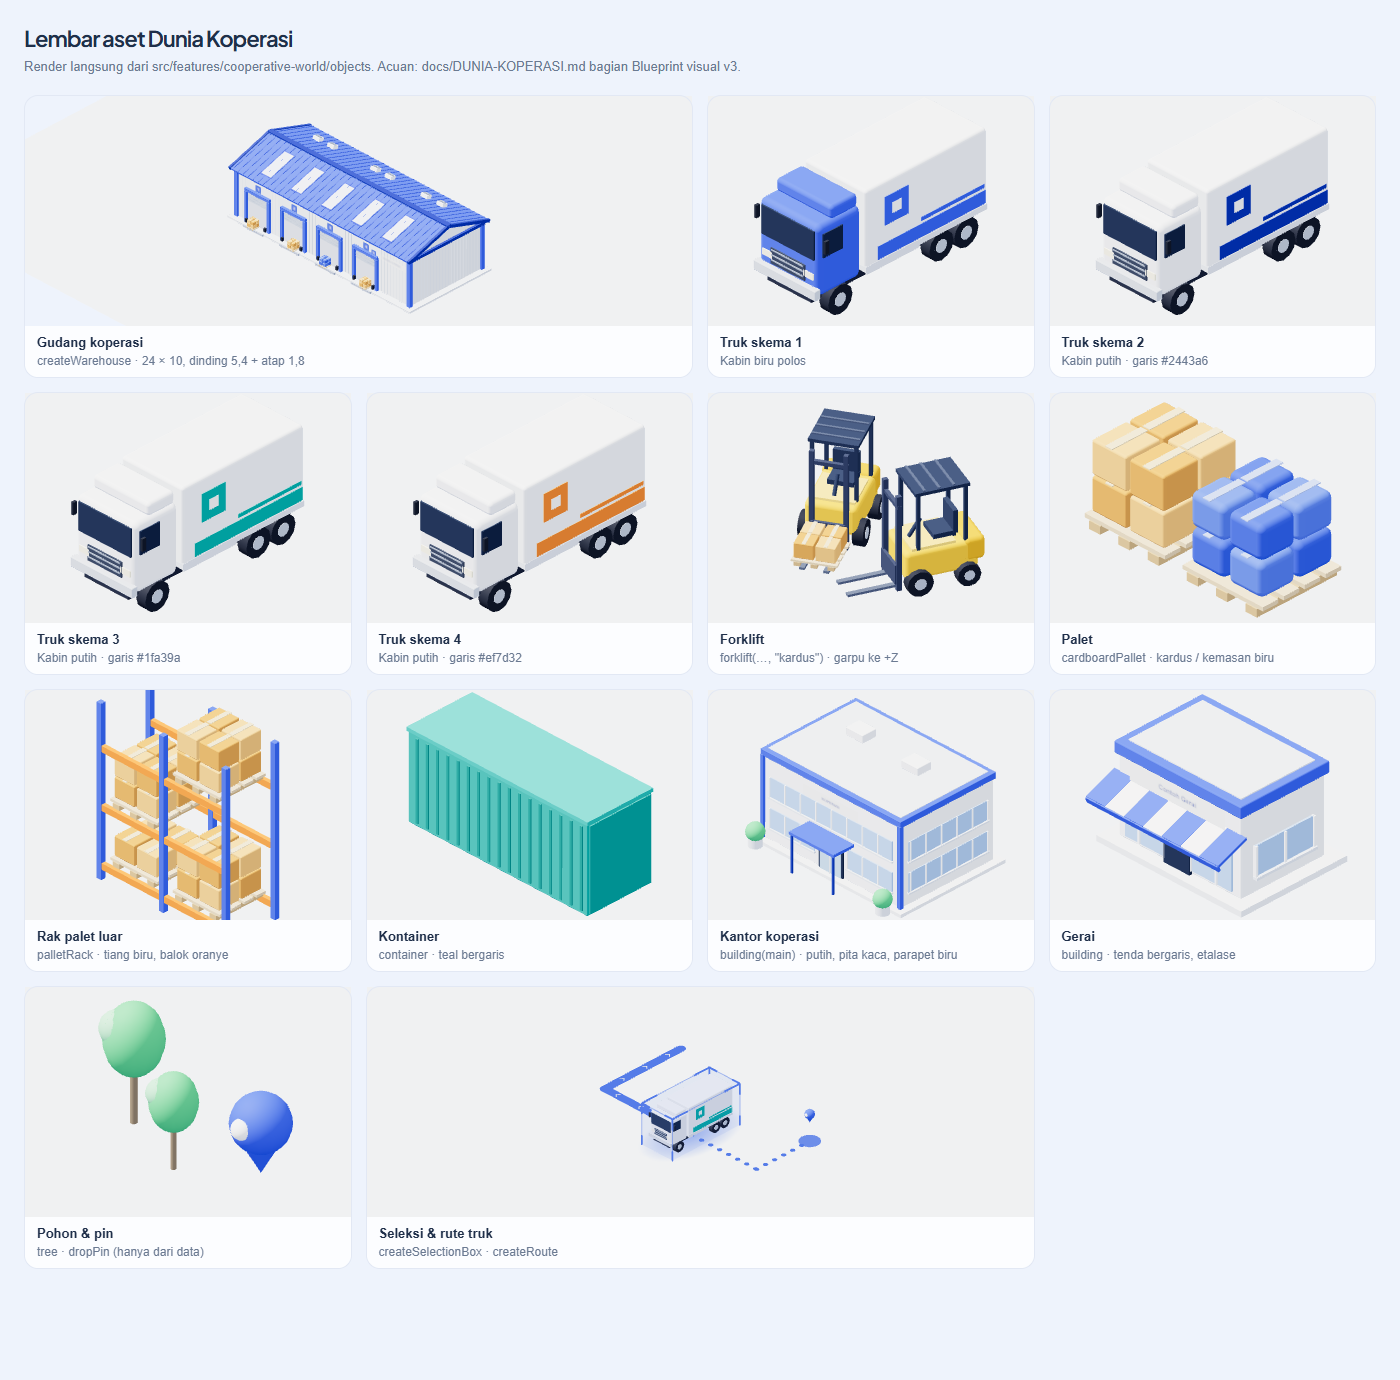
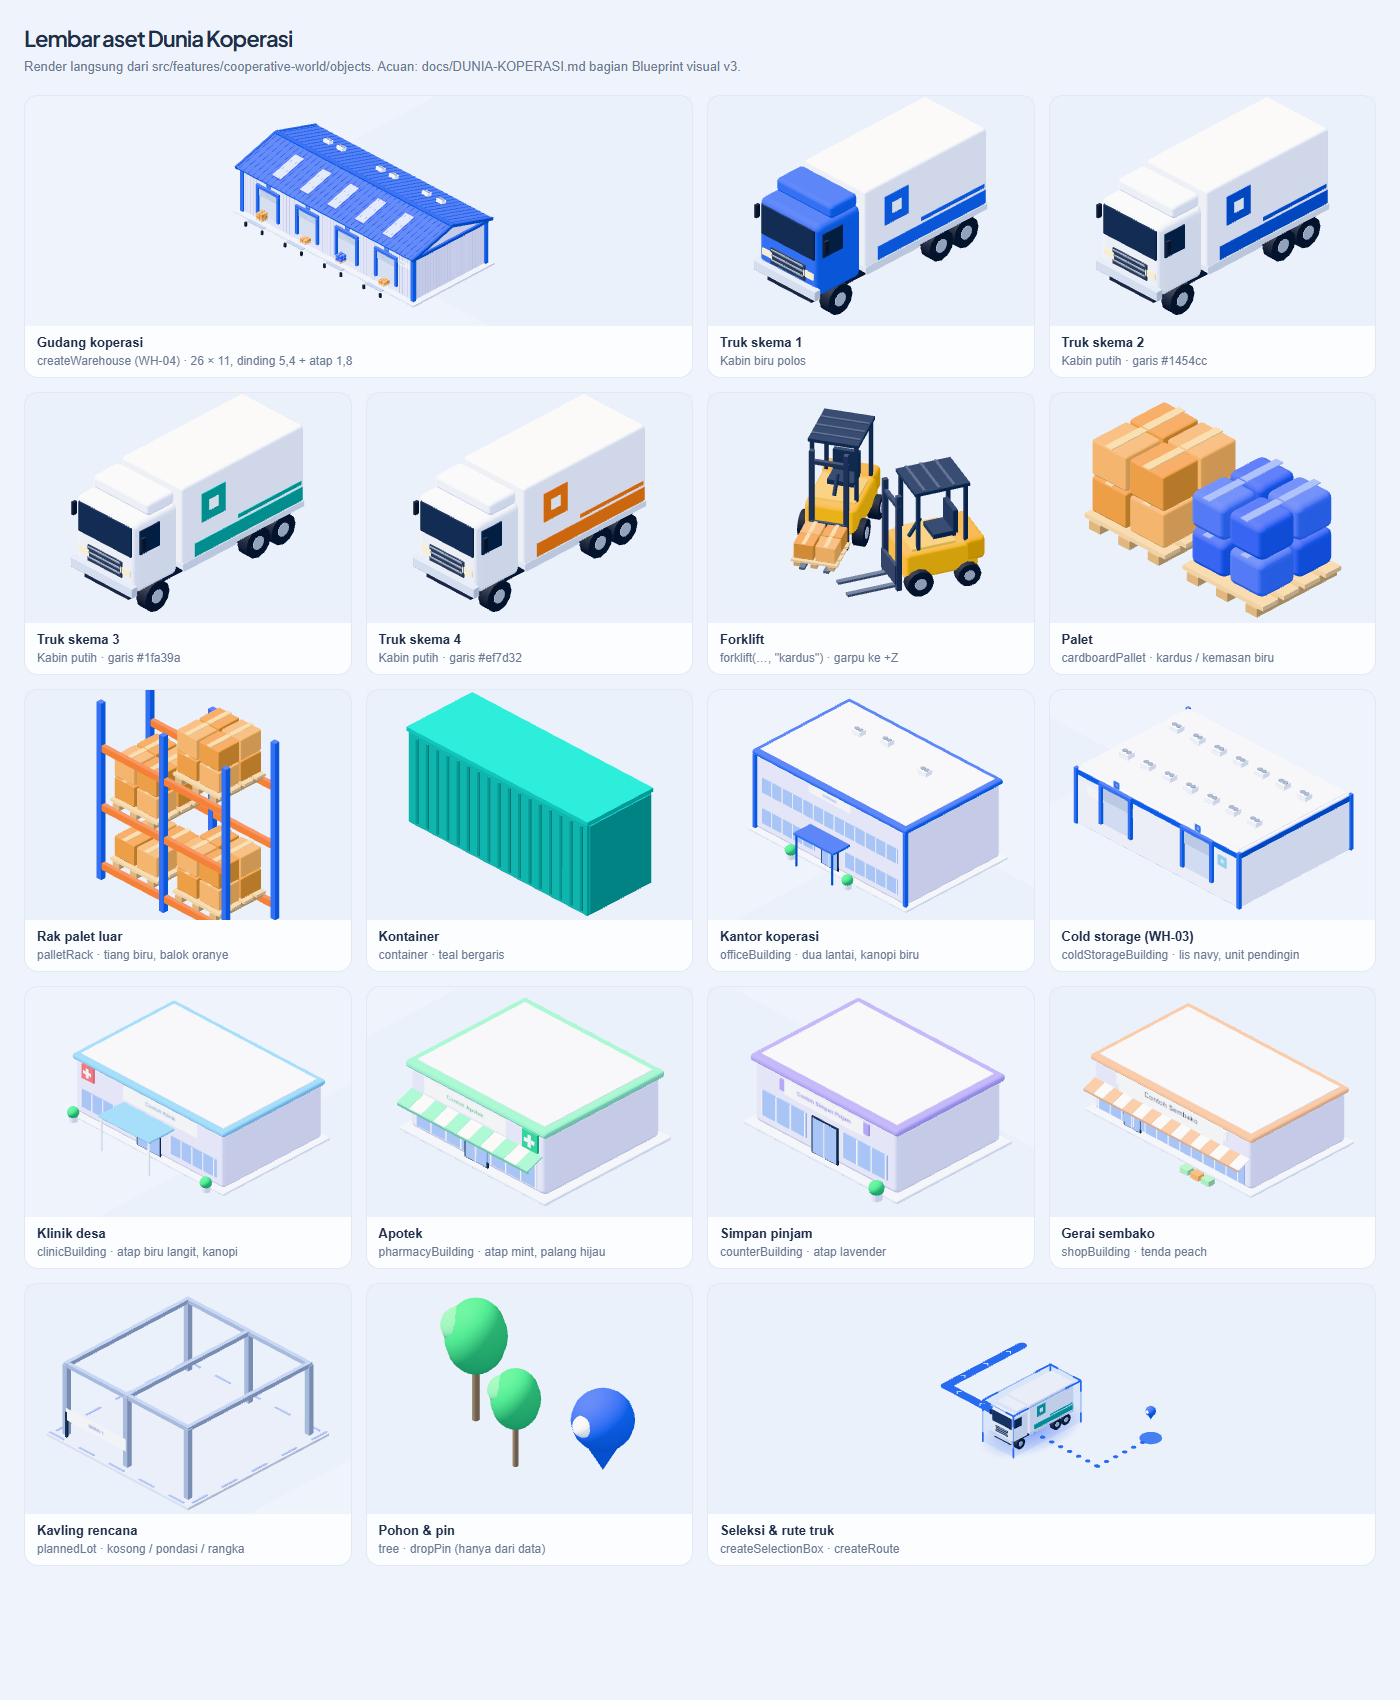
Distrik v4: bukti tangkapan layar, pembaruan lembar aset dan dokumentasi
Menambahkan tangkapan layar bukti implementasi Distrik v4 (resolusi 375-1440 px, interior gerai, cold storage, logistik, animasi dok, klik rapat). Memperbarui AssetSheet dengan bangunan per jenis (WH-04, WH-03, kantor, klinik, apotek, simpan pinjam, sembako, kavling rencana). Memperbarui tes UI, DUNIA-KOPERASI, STATUS, LANJUTAN-AI, dan CHANGELOG. Lulus 303 tes, typecheck, lint, dan build.

diff --git a/src/features/cooperative-world/dev/AssetSheet.tsx b/src/features/cooperative-world/dev/AssetSheet.tsx
@@ -3,20 +3,20 @@ import { useEffect, useRef } from 'react';
 import * as THREE from 'three';
 import { warehouse } from '../layout';
 import { createSelectionBox } from '../objects/highlight';
-import { building } from '../objects/office';
+import { allBuildings } from '../district';
 import {
-  disposeSharedResources,
-  mergeStatic,
-  palette,
-} from '../objects/primitives';
-import {
-  cardboardPallet,
-  container,
-  dropPin,
-  forklift,
-  palletRack,
-  tree,
-} from '../objects/props';
+  clinicBuilding,
+  coldStorageBuilding,
+  counterBuilding,
+  officeBuilding,
+  pharmacyBuilding,
+  plannedLot,
+  shopBuilding,
+} from '../objects/district-buildings';
+
+const find = (id: string) => allBuildings().find((b) => b.id === id)!;
+import { disposeSharedResources, mergeStatic, palette } from '../objects/primitives';
+import { cardboardPallet, container, dropPin, forklift, palletRack, tree } from '../objects/props';
 import { createRoute } from '../objects/route';
 import { truck, truckSchemes } from '../objects/vehicles';
 import { createWarehouse } from '../objects/warehouse';
@@ -30,7 +30,7 @@ type Cell = { title: string; note: string; build: (parent: THREE.Group) => void;
 const cells: Cell[] = [
   {
     title: 'Gudang koperasi',
-    note: 'createWarehouse · 24 × 10, dinding 5,4 + atap 1,8',
+    note: 'createWarehouse (WH-04) · 26 × 11, dinding 5,4 + atap 1,8',
     wide: true,
     build: (parent) => {
       const g = createWarehouse(parent);
@@ -72,16 +72,51 @@ const cells: Cell[] = [
   },
   {
     title: 'Kantor koperasi',
-    note: 'building(main) · putih, pita kaca, parapet biru',
+    note: 'officeBuilding · dua lantai, kanopi biru',
     build: (parent) => {
-      building(parent, 0, 0, 'Koperasi', true);
+      officeBuilding(parent, find('kantor'));
     },
   },
   {
-    title: 'Gerai',
-    note: 'building · tenda bergaris, etalase',
+    title: 'Cold storage (WH-03)',
+    note: 'coldStorageBuilding · lis navy, unit pendingin',
     build: (parent) => {
-      building(parent, 0, 0, 'Contoh Gerai', false, 'gerai');
+      coldStorageBuilding(parent, find('cold-storage'), 'aset');
+    },
+  },
+  {
+    title: 'Klinik desa',
+    note: 'clinicBuilding · atap biru langit, kanopi',
+    build: (parent) => {
+      clinicBuilding(parent, find('klinik'), 'Contoh Klinik', 'aset');
+    },
+  },
+  {
+    title: 'Apotek',
+    note: 'pharmacyBuilding · atap mint, palang hijau',
+    build: (parent) => {
+      pharmacyBuilding(parent, find('apotek'), 'Contoh Apotek', 'aset');
+    },
+  },
+  {
+    title: 'Simpan pinjam',
+    note: 'counterBuilding · atap lavender',
+    build: (parent) => {
+      counterBuilding(parent, find('simpan-pinjam'), 'Contoh Simpan Pinjam', 'aset');
+    },
+  },
+  {
+    title: 'Gerai sembako',
+    note: 'shopBuilding · tenda peach',
+    build: (parent) => {
+      shopBuilding(parent, find('sembako'), 'Contoh Sembako', 'aset', palette.pastelPeach);
+    },
+  },
+  {
+    title: 'Kavling rencana',
+    note: 'plannedLot · kosong / pondasi / rangka',
+    build: (parent) => {
+      plannedLot(parent, find('gerai-1'), 'aset', 'rangka');
     },
   },
   {
@@ -146,7 +181,8 @@ export function AssetSheet() {
       scene.add(group);
       cell.build(group);
       // Gudang dibangun di koordinat kawasan; geser ke titik asal agar kamera sederhana.
-      if (cell.title === 'Gudang koperasi') group.position.set(-warehouse.center[0], 0, -warehouse.center[1]);
+      if (cell.title === 'Gudang koperasi')
+        group.position.set(-warehouse.center[0], 0, -warehouse.center[1]);
       const floor = new THREE.Mesh(
         new THREE.PlaneGeometry(80, 80),
         new THREE.MeshStandardMaterial({ color: palette.ground, roughness: 1 }),
@@ -158,7 +194,9 @@ export function AssetSheet() {
       const center = bounds.getCenter(new THREE.Vector3());
       const radius = bounds.getSize(new THREE.Vector3()).length() / 2;
       const camera = new THREE.OrthographicCamera(-1, 1, 1, -1, 0.1, 400);
-      camera.position.copy(center).add(new THREE.Vector3(26, 23, 26).normalize().multiplyScalar(80));
+      camera.position
+        .copy(center)
+        .add(new THREE.Vector3(26, 23, 26).normalize().multiplyScalar(80));
       camera.lookAt(center);
       return { scene, camera, radius };
     });
@@ -212,7 +250,7 @@ export function AssetSheet() {
       <h1 style={{ fontSize: 22, margin: '0 0 4px' }}>Lembar aset Dunia Koperasi</h1>
       <p style={{ margin: '0 0 18px', color: '#6b7a92', fontSize: 13 }}>
         Render langsung dari src/features/cooperative-world/objects. Acuan: docs/DUNIA-KOPERASI.md
-        bagian Blueprint visual v3.
+        bagian Distrik ala video v4 dan Blueprint visual v3.
       </p>
       <div ref={host} style={{ position: 'relative' }}>
         <div
@@ -237,7 +275,12 @@ export function AssetSheet() {
             >
               <div data-cell={index} style={{ height: 230 }} />
               <figcaption
-                style={{ padding: '8px 12px', background: '#ffffffd9', fontSize: 12, lineHeight: 1.4 }}
+                style={{
+                  padding: '8px 12px',
+                  background: '#ffffffd9',
+                  fontSize: 12,
+                  lineHeight: 1.4,
+                }}
               >
                 <strong style={{ display: 'block', fontSize: 13 }}>{cell.title}</strong>
                 <span style={{ color: '#6b7a92' }}>{cell.note}</span>

diff --git a/tests/ui/cooperative-world.test.tsx b/tests/ui/cooperative-world.test.tsx
@@ -18,14 +18,16 @@ it('masuk dan keluar kantor dengan pintasan area yang tepat', () => {
 });
 it('gerai kosong mengarah ke form asli, tanpa membuat data pratinjau', () => {
   render(<CooperativeWorld data={{}} />);
-  fireEvent.click(screen.getByRole('button', { name: /Lahan gerai 1/ }));
-  expect(screen.getByText('Lahan kosong')).toBeTruthy();
+  // Bangunan unit tanpa catatan Gerai tampil sebagai rencana (distrik v4).
+  fireEvent.click(screen.getByRole('button', { name: /Simpan pinjam/ }));
+  expect(screen.getByText('Belum buka')).toBeTruthy();
   expect(screen.getByRole('link', { name: 'Tambahkan gerai' }).getAttribute('href')).toBe('/gerai');
 });
 it('galat pemuatan ditampilkan sebagai tidak tersedia, bukan angka nol', () => {
   render(<CooperativeWorld data={{}} error="Koneksi gagal" refresh={vi.fn()} />);
   expect(screen.getByRole('alert').textContent).toContain('Koneksi gagal');
-  expect(screen.getByRole('link', { name: /Gerai tercatat/ }).textContent).toContain('—');
+  // Zona bawaan v4 = logistik, jadi KPI pertama adalah barang; galat tetap tanda —, bukan 0.
+  expect(screen.getByRole('link', { name: /Barang tercatat/ }).textContent).toContain('—');
   expect(screen.getByRole('button', { name: 'Coba lagi' })).toBeTruthy();
 });
 it('preferensi korup tidak mencegah halaman tampil', () => {

diff --git a/docs/DUNIA-KOPERASI.md b/docs/DUNIA-KOPERASI.md
@@ -21,9 +21,18 @@ Arahan langsung pemilik terbaru mengatasi konflik. Jika gaya berubah atas permin
 
 ![Komposisi UI dan lingkungan video](referensi-dunia/video-contact-sheet.jpg)
 
-## Distrik ala video v4 — denah menunggu persetujuan pemilik (6 Oktober 2026)
+## Distrik ala video v4 — berlaku (denah disetujui pemilik 6 Oktober 2026)
 
-Wawancara kedua: tata letak harus mengikuti video, bukan denah lama dan bukan zip. Data denah di `district.ts` (fungsi murni, `validateDistrict` teruji); gambar dibuat ulang dengan `node scripts/denah-dunia.mjs`: [tampak atas](referensi-dunia/blueprint/denah-distrik.png) ([SVG](referensi-dunia/blueprint/denah-distrik.svg)), [sketsa isometrik](referensi-dunia/blueprint/denah-distrik-iso.png). Jalan kota grid (Raya 4 lajur, Koperasi, Utara, Barat, Timur, Lahan) bertrotoar; lima kavling berpagar: Logistik & cold storage (gudang WH-04 empat dok + cold storage WH-03 dua dok, lantai dok tinggi bertepi kuning, parkir 3 truk, cas forklift, staging kardus, gerbang barang ke Jalan Raya), Administrasi (kantor + simpan pinjam + parkir mobil + taman), Layanan kesehatan (klinik + apotek berdampingan, plaza, parkir), Gerai niaga (sembako + tiga kavling gerai tambahan, parkir), Lahan pertanian (enam petak kosong). Truk masuk dari timur Jalan Raya tanpa melewati area warga. Rincian keputusan dan urutan kerja di LANJUTAN-AI. Implementasi 3D dimulai setelah denah disetujui.
+Wawancara kedua: tata letak harus mengikuti video, bukan denah lama dan bukan zip. Data denah di `district.ts` (fungsi murni, `validateDistrict` teruji); gambar dibuat ulang dengan `node scripts/denah-dunia.mjs`: [tampak atas](referensi-dunia/blueprint/denah-distrik.png) ([SVG](referensi-dunia/blueprint/denah-distrik.svg)), [sketsa isometrik](referensi-dunia/blueprint/denah-distrik-iso.png). Jalan kota grid (Raya 4 lajur, Koperasi, Utara, Barat, Timur, Lahan) bertrotoar; lima kavling berpagar: Logistik & cold storage (gudang WH-04 empat dok + cold storage WH-03 dua dok, lantai dok tinggi bertepi kuning, parkir 3 truk, cas forklift, staging kardus, gerbang barang ke Jalan Raya), Administrasi (kantor + simpan pinjam + parkir mobil + taman), Layanan kesehatan (klinik + apotek berdampingan, plaza, parkir), Gerai niaga (sembako + tiga kavling gerai tambahan, parkir), Lahan pertanian (enam petak kosong). Truk masuk dari timur Jalan Raya tanpa melewati area warga. Rincian keputusan di LANJUTAN-AI. Catatan persetujuan: blok kota tidak kaku (ukuran/tinggi/jarak bervariasi).
+
+**Implementasi v4** (bagian ini mengalahkan uraian kawasan lama di bawah bila bertentangan):
+- Data: `district.ts` (jalan, kavling, unit KDMP, lantai dok, parkir, lahan, kota; `validateDistrict`). `layout.ts` kawasan menurun dari sana. Gerai dipetakan ke bangunan menurut kolom **Jenis** (sembako, apotek, klinik, simpan pinjam, cold storage; logistik = catatan gudang); jenis lain mengisi kavling gerai tambahan 1–3 menurut kolom Lahan lalu urutan dibuat. Tanpa catatan = kavling rencana; status rencana = pondasi, persiapan = rangka.
+- Aset: `objects/district-buildings.ts` (kantor, simpan pinjam, toko, apotek, klinik, cold storage WH-03, kavling rencana; sudut membulat, atap pastel), gudang WH-04 dengan pintu di atas lantai dok tinggi, halaman logistik dari data (kardus staging = barang tanpa rak), `exterior.ts` (jalan bertrotoar, zebra cross, kavling berpagar kaca, mobil parkir pastel, taman, lahan, kota bervariasi). Lembar aset hidup: `/dev/dunia-koperasi/aset`.
+- Warna: Neutral tone mapping, tanah/halaman/aspal biru-lavender sampel video, cahaya bawah biru (bayangan berona biru), GTAO di kualitas Tinggi; bawaan siang cerah (otomatis WIB tetap pilihan Suasana). Kamera bawaan di kavling logistik, zoom keluar sampai 0,2; bayangan mengikuti fokus kamera.
+- UI: kartu/dock/header putih 86 % + blur di desktop (95 % tanpa blur di ponsel/Hemat), kartu meluncur saat berganti; pemilih zona berlencana ilustrasi dengan bar dan ringkasan data (`zoneSummaries`); bar stok vs minimum dan mini grafik 7 hari (`weekCounts`); klik rapat/tugas/barang/Tim/Dok pergi ke tempatnya dengan kartu rapat/tugas/barang.
+- Gerak: kendaraan suasana berkeliling blok di lajur kiri dengan belokan halus (`roundedPath`); truk Pengiriman yang baru berubah status (≤ 15 menit, atau selalu di pratinjau) datang dari timur, melewati dok lalu mundur berbelok ke dok (`truckArrival`).
+- Interior baru: cold storage (`pendingin`, rak barang C1–C3 pada kolom Rak, tanpa SQL) dan gerai (`gerai:<id>`: toko, apotek, klinik, simpan pinjam; barang ber-Gerai di rak, staf Tim gerai itu di loket).
+- Bukti: [distrik 1440](referensi-dunia/blueprint/implementasi-v4-distrik-1440.png), [logistik](referensi-dunia/blueprint/implementasi-v4-logistik.png), [truk mundur ke dok](referensi-dunia/blueprint/implementasi-v4-truk-mundur-dok.png), [klik rapat](referensi-dunia/blueprint/implementasi-v4-klik-rapat.png), [cold storage](referensi-dunia/blueprint/implementasi-v4-interior-cold-storage.png), [sembako](referensi-dunia/blueprint/implementasi-v4-interior-sembako.png), [klinik](referensi-dunia/blueprint/implementasi-v4-interior-klinik.png), [ponsel 375](referensi-dunia/blueprint/implementasi-v4-ponsel-375.png), [lembar aset](referensi-dunia/blueprint/lembar-aset.png).
 
 ## Blueprint visual v3 — mengikuti video (6 Oktober 2026, berlaku)
 

diff --git a/docs/LANJUTAN-AI.md b/docs/LANJUTAN-AI.md
@@ -22,7 +22,7 @@ Kerjakan **Rencana Dunia Koperasi v2** pada bagian terakhir [DUNIA-KOPERASI](DUN
 3. Sebelum tiap paket buat tag checkpoint; commit kecil per paket; PR ke main hanya setelah pemilik menilai screenshot/rekaman.
 4. Akhir paket: perbarui bagian "Paket terakhir" di bawah, STATUS dan CHANGELOG.
 
-## Paket berjalan: Distrik ala video v4 (keputusan pemilik 6 Oktober, wawancara kedua)
+## Paket selesai (menunggu penilaian pemilik): Distrik ala video v4 (keputusan pemilik 6 Oktober, wawancara kedua)
 
 Acuan tunggal: video. Zip pemilik (PANDUAN_AGENT/dunia-koperasi-referensi-luas.html) hanya gambaran, bukan panduan. Jangan berpatokan pada denah lama.
 Keputusan: distrik kota grid berjalan berlajur + zebra cross; kavling berpagar rapi (halaman, parkir, rumput/pohon), tidak berdempetan. Kavling: Logistik (gudang gaya WH-04 + lingkungannya) + Cold storage (gaya WH-03) berbagi halaman dok berlantai tinggi, marka kuning, parkir truk, cas forklift, kardus staging dari barang tanpa rak; Administrasi (kantor + simpan pinjam + parkir); Kesehatan (klinik + apotek berdampingan); Niaga (sembako + kavling gerai tambahan); Lahan pertanian L1–L6 kosong. Posisi unit KDMP tetap; bangunan tampil dari data Gerai, belum buka = kavling rencana. Warna dasar = sampel video (tanah #e4ecfc, #d4dcf4, #bccce4; dinding #ececfc; biru #2f6be8/#1454cc); warna lain improvisasi pastel senada. Bayangan berona biru, sudut membulat, AO di Tinggi, bayangan kontak di Sedang/Hemat. Bawaan siang cerah, cuaca/waktu manual di Suasana. Kamera bawaan dekat, halus. Kartu putih 82–88 % + blur desktop, 95 % tanpa blur ponsel/Hemat; ikon ilustrasi biru; bar chart (stok vs minimum, progres dok, mini 7 hari dari data nyata, sembunyi bila tanpa riwayat). Pemilih zona ala video (kavling + bar + ringkasan data). Klik item daftar pergi ke tempatnya (rapat→ruang rapat, tugas→meja, stok→rak, Tim→karakter, Dok→truk). Truk data masuk, belok halus, mundur ke dok; kendaraan suasana keliling grid. Penunjuk tanah kosong = kotak biru rendah saat dipilih. Interior baru: cold storage (lokasi barang cold storage, rak C1–C3) dan gerai per jenis (sembako, apotek, klinik, simpan pinjam; barang/staf dari data). Angka hanya dari data.
@@ -51,6 +51,8 @@ Kerjakan berurutan; satu commit lokal per langkah (tanpa push). Centang di sini 
 - [x] 6. Perbarui Blueprint v3 di DUNIA-KOPERASI, lembar aset, STATUS, CHANGELOG; tes/typecheck/lint/build; tag checkpoint/v3-1 sebelum langkah 1.
 
 ## Paket terakhir
+
+- 6 Oktober, **Distrik v4** selesai lokal (commit per langkah, tag checkpoint/v4). Berikutnya: penilaian pemilik, lalu menu web tambahan (mis. kolom sopir/plat/jam tiba di Pengiriman, data lahan pertanian). Port 3000 dipakai dev server pemilik; tangkapan headless memakai Chromium ms-playwright via CDP (lihat paket v3).
 
 - 6 Oktober, **Blueprint visual v3** (arahan pemilik: semirip mungkin video, fokus tampilan): aset baru, rute truk, kartu ilustrasi; panduan di DUNIA-KOPERASI bagian Blueprint visual v3 dan docs/referensi-dunia/blueprint. Berikutnya menunggu penilaian pemilik, lalu menu web tambahan. Cara membuat ulang bahan blueprint: (1) lembar aset = buka /dev/dunia-koperasi/aset dan potret 1400 × 1380; (2) denah = transpile layout.ts + truck-routes.ts dengan typescript lalu gambar SVG (skrip satu kali di sesi 6 Oktober; tulis ulang sebagai scripts/ bila sering dipakai); (3) kartu-contoh.html memakai WorldIcon yang dirender renderToStaticMarkup. Tangkapan WebGL: pane browser berhenti menggambar saat tersembunyi; pakai Chromium headless (ms-playwright) via CDP dengan --use-angle=swiftshader. Jangan menyunting berkas UTF-8 dengan Set-Content PowerShell 5.1.
 

diff --git a/docs/STATUS.md b/docs/STATUS.md
@@ -14,6 +14,10 @@ Implementasi lokal, belum dinilai pemilik. Aset baru dari kode: gudang dok ala v
 
 Bukti: 296 tes/45 berkas, typecheck, lint dan build lulus. Tangkapan headless Chromium (SwiftShader) data contoh pada 375, 768, 1024, 1280 dan 1440 px; 58–89 draw call. Belum: perangkat fisik, rekaman gerak, data cloud, penilaian pemilik. Di 1024–1279 px dock masih menutupi baris bawah kartu Daftar (keadaan lama).
 
+## Distrik ala video v4 (6 Oktober, denah disetujui pemilik)
+
+Selesai lokal (belum di-push): denah distrik kota grid dari `district.ts`, bangunan unit KDMP per Jenis Gerai, gudang WH-04 + cold storage WH-03 berlantai dok tinggi, kota bervariasi, warna sampel video + pastel, AO, bawaan siang; kartu transparan, pemilih zona berdata, bar chart, klik pergi ke tempat; kendaraan berbelok halus dan truk mundur ke dok; interior cold storage dan empat jenis gerai. Bukti: tes Vitest lulus, typecheck/lint/build, tangkapan headless 375–1440 px (render headless ±2–3 fps sehingga animasi hanya diperiksa lewat tangkapan berjeda dan tes fungsi murni). Belum: perangkat fisik, rekaman gerak di GPU asli, data cloud, penilaian pemilik. Kolom Rak barang kini menerima C1–C3 (Zod/katalog, tanpa migrasi).
+
 ## Perbaikan kecil v3.1 (6 Oktober, hasil wawancara pemilik)
 
 Selesai lokal: tanah tak berujung berkabut tanpa tepi pink saat zoom keluar, batas zoom; skylight menggantikan logo atap, pin peti dihapus; penunjuk kotak bersiku tebal mengikuti objek bergerak; kamera mengikuti objek bergerak terpilih; maskot tanpa tombol/bubble, bubble hanya percakapan. Bukti: 296 tes lulus, typecheck/lint/build, tangkapan headless (forklift diikuti, zoom senja). Belum: perangkat fisik, rekaman gerak percakapan manajer.

diff --git a/CHANGELOG.md b/CHANGELOG.md
@@ -1,5 +1,14 @@
 # Changelog
 
+## Distrik ala video v4 — 6 Oktober 2026
+
+- Denah distrik dari data teruji (district.ts, scripts/denah-dunia.mjs): jalan kota, lima kavling berpagar, unit KDMP per Jenis Gerai, lahan pertanian, kota bervariasi.
+- Aset: kantor, simpan pinjam, toko, apotek, klinik, cold storage WH-03, kavling rencana; gudang WH-04 di atas lantai dok tinggi; halaman logistik dari data.
+- Visual: warna sampel video + pastel, Neutral tone mapping, bayangan biru, GTAO, bawaan siang.
+- UI: kartu transparan, pemilih zona berdata, bar chart stok dan 7 hari, klik item pergi ke tempatnya.
+- Gerak: kendaraan berbelok halus, truk maju lalu mundur ke dok.
+- Interior cold storage (rak C1–C3) dan gerai per jenis; lima skill Three.js dari cloudai-x/threejs-skills.
+
 ## Perbaikan kecil v3.1 — 6 Oktober 2026
 
 - Tanah tak berujung + kabut, zoom keluar dibatasi; tidak ada tepi pink.
